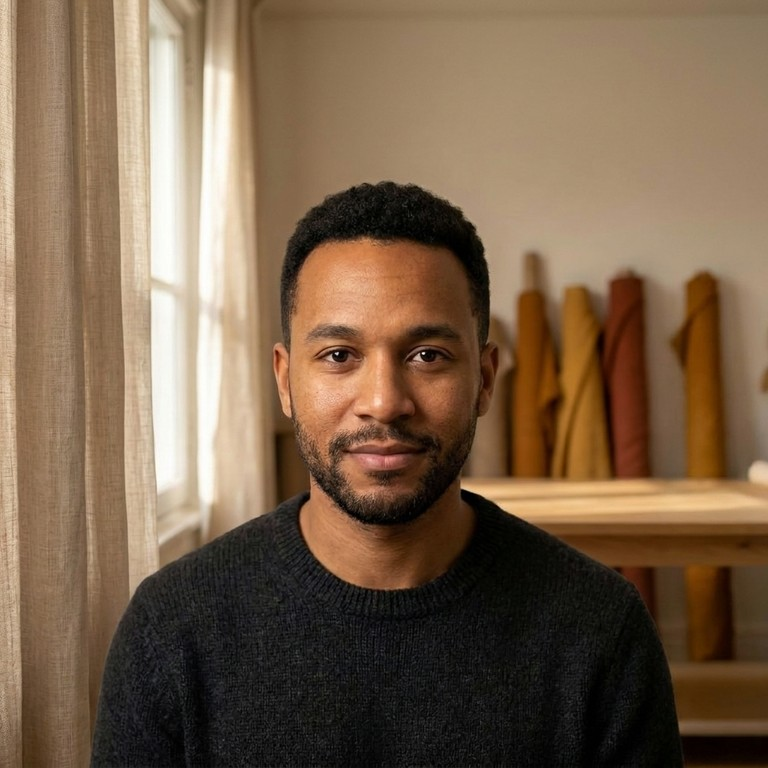
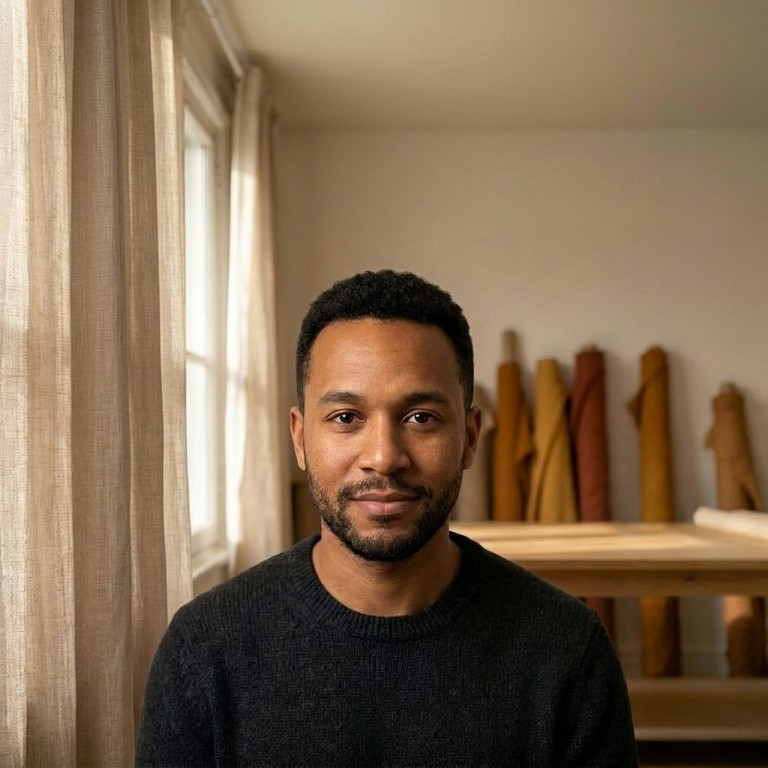
feat: Theo framed wider again, sized for the studio TV
Claude-Session: https://claude.ai/code/session_01GSFhiV3Ep34znZMVb7cbqT

diff --git a/apps/tv-show-live/page/gilded.css b/apps/tv-show-live/page/gilded.css
@@ -254,7 +254,7 @@ button { font: inherit; }
 .gr-tv-feed { position: absolute; inset: 0; opacity: 0; transition: opacity .5s; filter: blur(.35px); }
 .gr-tv-feed.is-on { opacity: 1; }
 /* The top of the guest's frame: her face and the film's art behind her (her hands fall below the TV). */
-.gr-tv-feed .ll-face img, .gr-tv-feed .ll-face video { object-position: 50% 45%; }
+.gr-tv-feed .ll-face img, .gr-tv-feed .ll-face video { object-position: 50% 60%; }
 .gr-tv-card { position: absolute; inset: 0; display: grid; align-content: center; justify-items: center; gap: .5cqw; text-align: center; }
 .gr-tv-card img { position: absolute; inset: 0; width: 100%; height: 100%; object-fit: cover; filter: brightness(.45); }
 .gr-tv-card > :not(img) { position: relative; }
